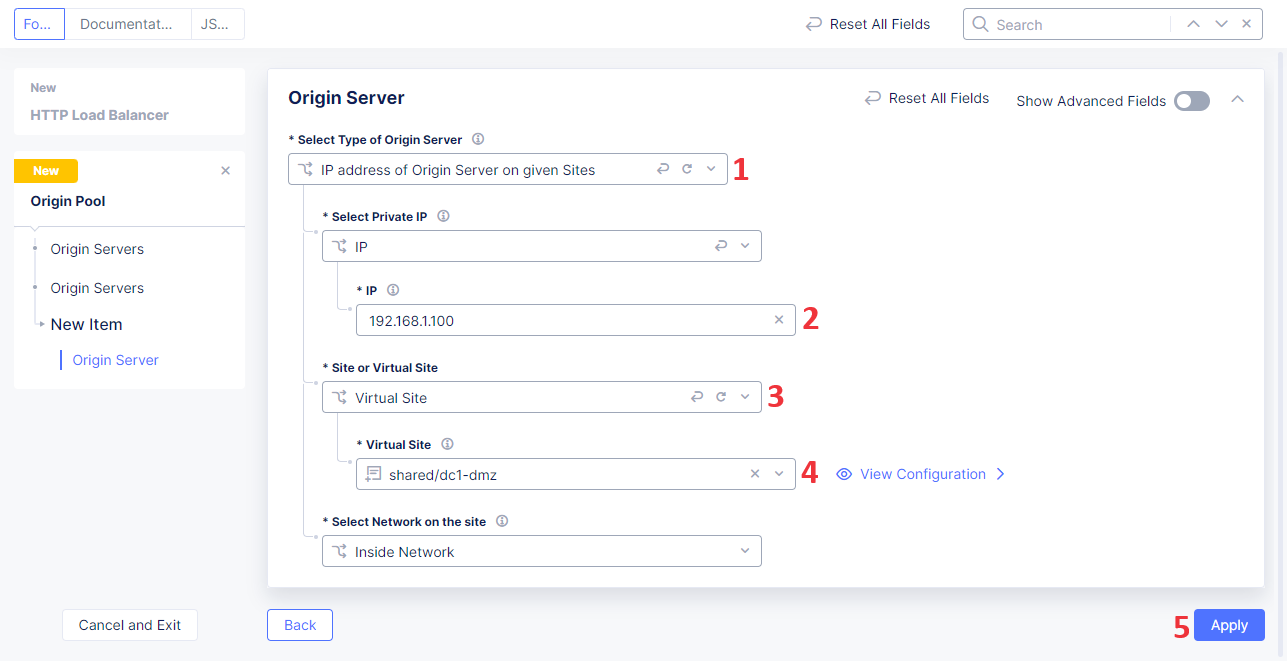
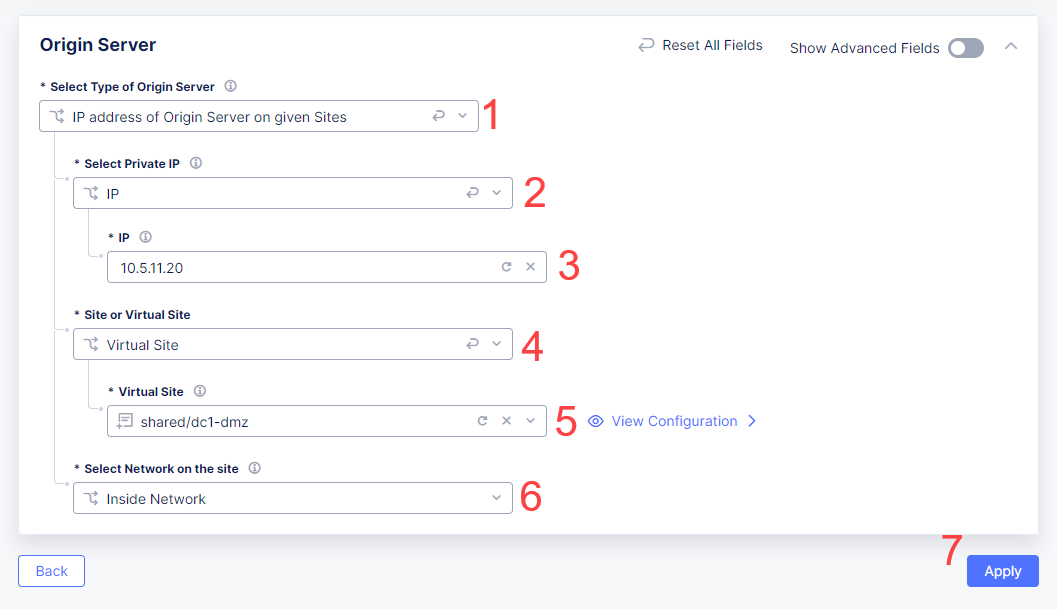
guide updates

diff --git a/README.md b/README.md
@@ -11,8 +11,10 @@
   - [1.2 Deploy CE Tenant on F5 rSeries](#12-deploy-ce-tenant-on-f5-rseries)
   - [1.2.1 Create Secure Mesh Site in XC Cloud](#121-create-secure-mesh-site-in-xc-cloud)
   - [1.2.2 Deploy CE Tenant on F5 rSeries](#122-deploy-ce-tenant-on-f5-rseries)
-  - [1.3 Deploy Big-IP on F5 rSeries](#13-deploy-big-ip-on-f5-rseries)
-  - [1.4 Configure Application VMs](#14-configure-application-vms)
+  - [1.3 Deploy and Confgiure Big-IP on F5 rSeries](#13-deploy-and-confgiure-big-ip-on-f5-rseries)
+  - [1.3.1 Deploy Big-IP on F5 rSeries](#131-deploy-big-ip-on-f5-rseries)
+  - [1.3.2 Configure Big-IP on F5 rSeries](#132-configure-big-ip-on-f5-rseries)
+  - [1.5 Configure Application VMs](#15-configure-application-vms)
 - [2. Expose Application to the Internet](#2-expose-application-to-the-internet)
   - [2.1 Create Big-IP Virtual Server](#21-create-big-ip-virtual-server)
   - [2.2 Configure XC Virtual Site](#22-configure-xc-virtual-site)
@@ -24,9 +26,6 @@
   - [3.4 Configure DDoS Protection](#34-configure-ddos-protection)
   - [3.5 Configure Malicious User and IP Reputation](#35-configure-malicious-user-and-ip-reputation)
   - [3.6 Verify Application](#36-verify-application)
-- [4. Extend Solution with Additional Data Center](#4-extend-solution-with-additional-data-center)
-  - [4.1 Configure Second Data Center](#41-configure-second-data-center)
-  - [4.2 Configure Second Virtual Site](#42-configure-second-virtual-site)
   - [4.3 Setup DMZ Configuration](#43-setup-dmz-configuration)
 
 
@@ -122,7 +121,9 @@ Go back to the XC Cloud and navigate to the `Sites` and wait until the site is d
 
 ![rseries-sms](./assets/rseries-confirm.png)
 
-## 1.3 Deploy Big-IP on F5 rSeries
+## 1.3 Deploy and Confgiure Big-IP on F5 rSeries
+
+## 1.3.1 Deploy Big-IP on F5 rSeries
 
 ![rseries-bigip](./assets/f5os_bigip_tenant_image.png)
 
@@ -134,7 +135,18 @@ Go back to the XC Cloud and navigate to the `Sites` and wait until the site is d
 
 ![rseries-bigip](./assets/f5os_bigip_create_part_2.png)
 
-## 1.4 Configure Application VMs
+## 1.3.2 Configure Big-IP on F5 rSeries
+
+![rseries-bigip](./assets/bigip_config_vlan_navigate.png)
+
+![rseries-bigip](./assets/bigip_config_vlan_create.png)
+
+![rseries-bigip](./assets/bigip_config_selfip_navigate.png)
+
+![rseries-bigip](./assets/bigip_config_selfip_create.png)
+
+
+## 1.5 Configure Application VMs
 
 The main application is a simple web application that simulates a banking application. The application is hosted on an Ubuntu VM. The following steps are required to configure the main application VM:
 
@@ -246,7 +258,7 @@ Then click **Add Item** to add an origin server.
 
 ![HTTP LB](./assets/http_lb_pool_origin.png)
 
-Select **IP address of Origin Server on given Sites** as Origin Server type and type in the **192.168.1.100** private IP. Then in the drop-down menu select the [Virtual Site](#21-configure-virtual-site) we created earlier. Complete the configuration by clicking the **Apply** button.
+Select **IP address of Origin Server on given Sites** as Origin Server type and type in the **10.5.11.20** private IP (your BigIP XC interface). Then in the drop-down menu select the [Virtual Site](#21-configure-virtual-site) we created earlier. Complete the configuration by clicking the **Apply** button.
 
 ![HTTP LB](./assets/http_lb_pool_details.png)
 
@@ -405,10 +417,52 @@ Navigate to the **Applications** tab and select your HTTP Load Balancer. Then cl
 
 ![Configure](./assets/http_discovery.png)
 
-# 4. Extend Solution with Additional Data Center
-
-## 4.1 Configure Second Data Center
-
-## 4.2 Configure Second Virtual Site
-
 ## 4.3 Setup DMZ Configuration
+
+Finally, we will configure HTTP Load Balancer by creating the second origin pool for the second Data Center and configuring it.
+
+To do that go to the F5 Distributed Cloud Console and select **Manage Configuration** in the service menu of the earlier [created HTTP Load Balancer](#22-create-http-load-balancer).
+
+![Second DC](./assets/dc2_manage.png)
+
+Click the **Edit Configuration** button to enable the editing mode.
+
+![Second DC](./assets/dc2_edit.png)
+
+Scroll to the **Origins** section and click the **Add Item** button. This will open origin pool creation form.
+
+![Second DC](./assets/dc2_add_pool.png)
+
+Open the **Origin Pool** drop-down menu and click **Add Item** to add an origin pool.
+
+![Second DC](./assets/dc2_create_pool.png)
+
+Give origin pool a name.
+
+![Second DC](./assets/dc2_pool_name.png)
+
+Then click **Add Item** to add an origin server.
+
+![Second DC](./assets/dc2_add_origin.png)
+
+Select **IP address of Origin Server on given Sites** as Origin Server type and type in the **10.6.11.20** private IP (Your BigIP XC interface in the second DC). Then in the drop-down menu select the [Virtual Site](#42-configure-second-virtual-site) we created earlier. Complete the configuration by clicking the **Apply** button.
+
+![Second DC](./assets/dc2_configure_origin.png)
+
+Type in the **8080** origin server port.
+
+![Second DC](./assets/dc2_port.png)
+
+Scroll down and click **Continue**.
+
+![Second DC](./assets/dc2_save_pool.png)
+
+Change the **Priority** of the origin pool to **0**. This will make the second origin pool backup for the first one. **Apply** origin pool configuration.
+
+![Second DC](./assets/dc2_apply_pool.png)
+
+The second configured origin pool will appear on the list.
+
+![Second DC](./assets/dc2_pool_result.png)
+
+Now that we have added and configured the second origin pool of the HTTP Load Balancer for the second Data Center, click **Save and Exit** to save it.
